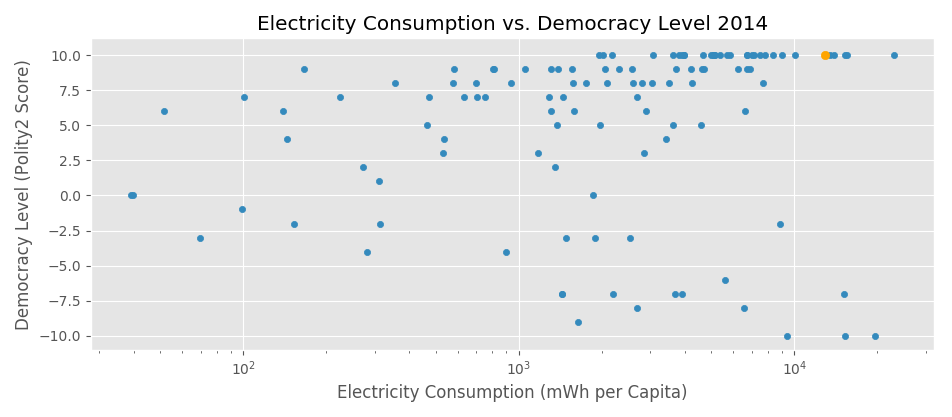
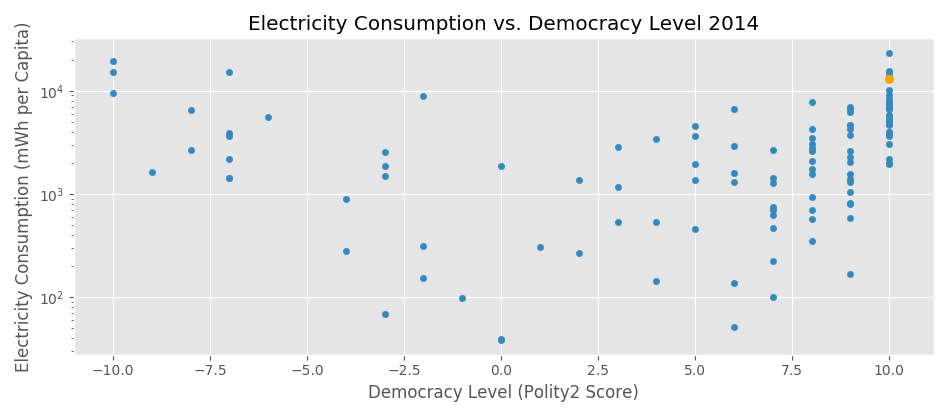
update axis to reflect spec (switch x and y) update output plots

diff --git a/336_data_essay1.py b/336_data_essay1.py
@@ -85,13 +85,13 @@ def vis_gdp_elec(gdp, elec):
     df = df.rename(index=str, columns={0: 'GDP($) per Capita', 1: 'kWh per Capita'})
     df = df.iloc[1:]
     df = df.astype(float)
-    ax = df.plot(kind='scatter', x='kWh per Capita', y='GDP($) per Capita', loglog=True,
+    ax = df.plot(kind='scatter', x='GDP($) per Capita', y='kWh per Capita', loglog=True,
                  title='Electricity Consumption vs. GDP 2014')
-    ax.set_xlabel("Electricity Consumption (mWh per Capita)")
-    ax.set_ylabel("GDP ($ equivalent per Capita)")
-    ax.scatter(df['kWh per Capita']['World'], df['GDP($) per Capita']['World'],
+    ax.set_ylabel("Electricity Consumption (mWh per Capita)")
+    ax.set_xlabel("GDP ($ equivalent per Capita)")
+    ax.scatter(df['GDP($) per Capita']['World'], df['kWh per Capita']['World'],
                marker='o', color='red')
-    ax.scatter(df['kWh per Capita']['United States'], df['GDP($) per Capita']['United States'],
+    ax.scatter(df['GDP($) per Capita']['United States'], df['kWh per Capita']['United States'],
                marker='o', color='orange')
     plt.interactive(False)
     plt.show()
@@ -116,11 +116,11 @@ def vis_elec_dem(elec, dem):
     df = df.transpose()    # transpose DataFrame for graphing
     df = df.rename(index=str, columns={0: 'kWh per Capita', 1: 'Democracy Level'})
     df = df.astype(float)
-    ax = df.plot(kind='scatter', x='kWh per Capita', y='Democracy Level',
-                 title='Electricity Consumption vs. Democracy Level 2014', logx=True)
-    ax.set_xlabel("Electricity Consumption (mWh per Capita)")
-    ax.set_ylabel("Democracy Level (Polity2 Score)")
-    ax.scatter(df['kWh per Capita']['United States'], df['Democracy Level']['United States'],
+    ax = df.plot(kind='scatter', x='Democracy Level', y='kWh per Capita',
+                 title='Electricity Consumption vs. Democracy Level 2014', logy=True)
+    ax.set_ylabel("Electricity Consumption (mWh per Capita)")
+    ax.set_xlabel("Democracy Level (Polity2 Score)")
+    ax.scatter(df['Democracy Level']['United States'], df['kWh per Capita']['United States'],
                marker='o', color='orange')
     plt.interactive(False)
     plt.show()
